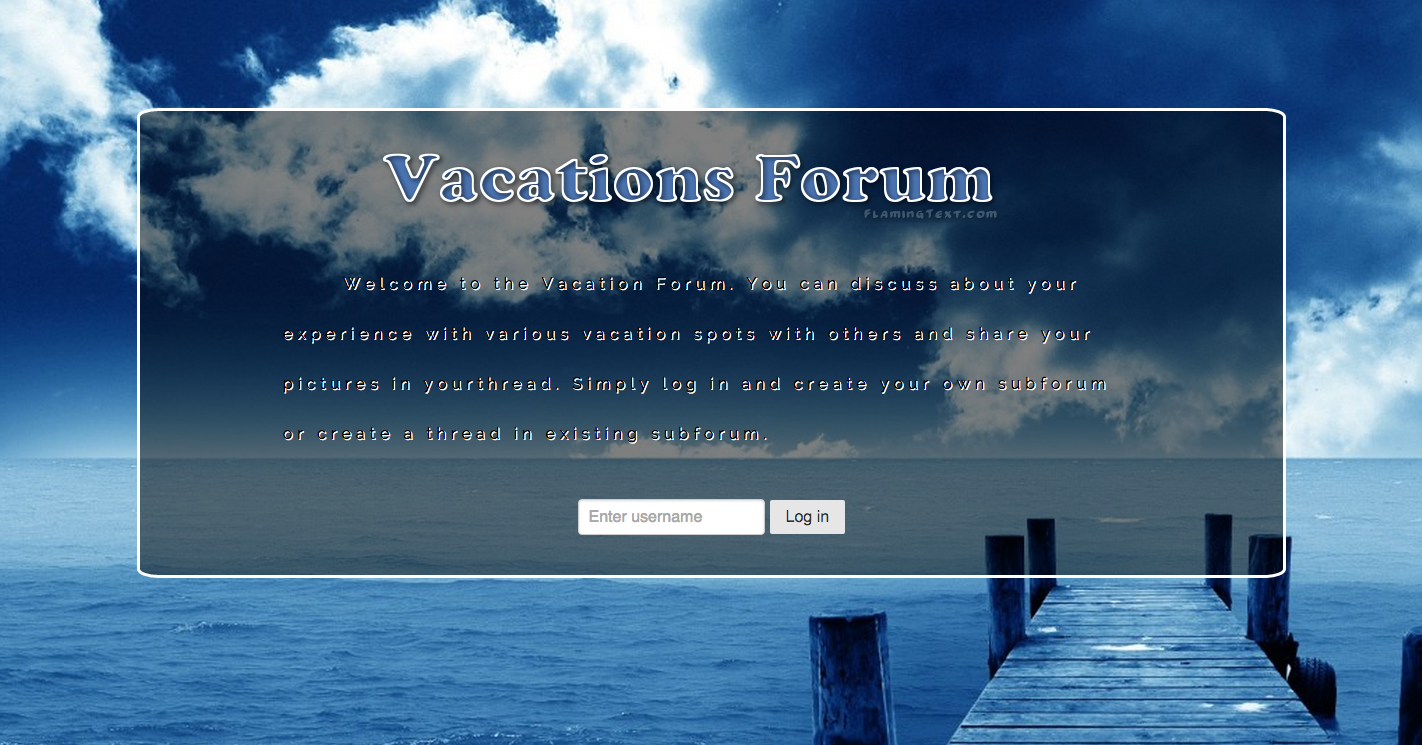
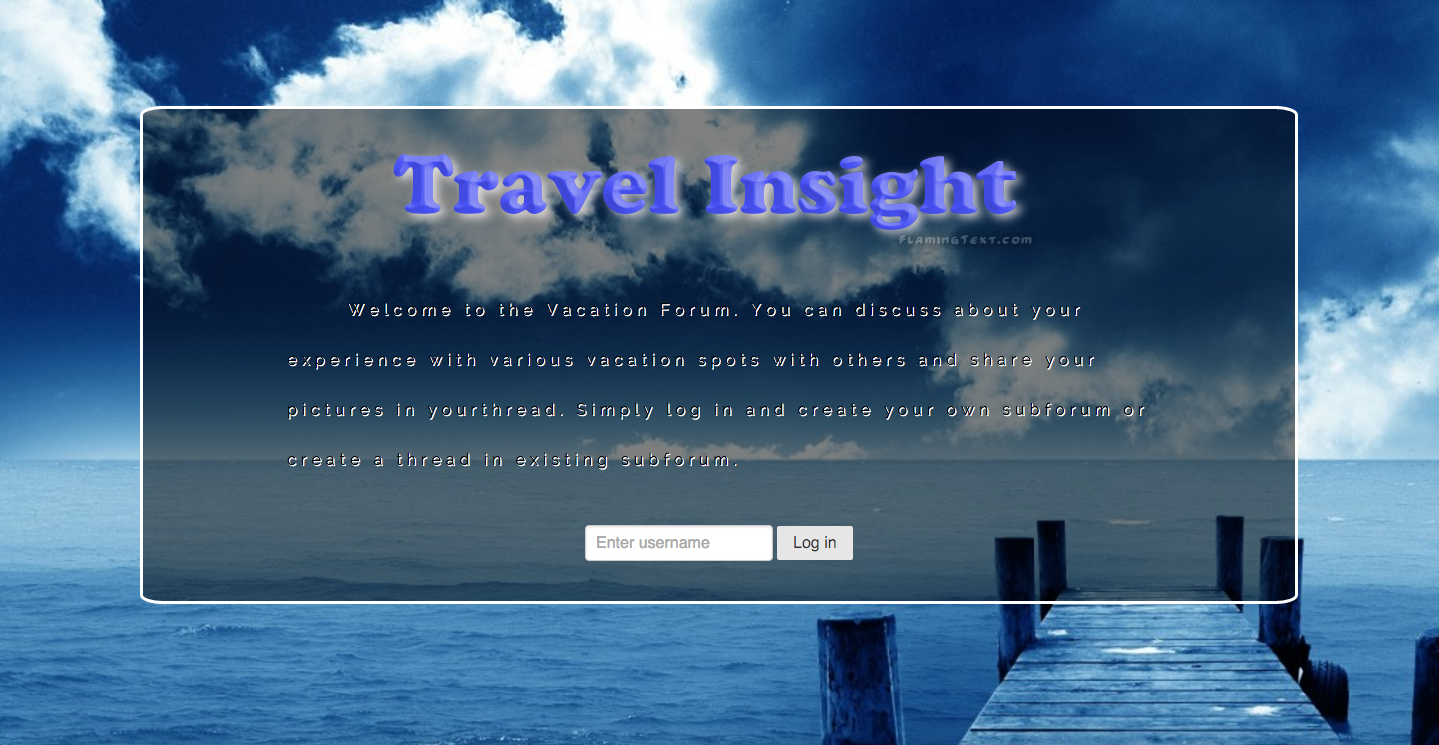
resize

diff --git a/index.html b/index.html
@@ -45,7 +45,10 @@
 				<a href="https://carit.herokuapp.com" target="_blank" class="project-link"><img src="./img/final.jpg" class="img-responsive">
 					<div class="description">
 						<h2>CAR IT</h2>
-						<p class="text">sfjsdljfsdjkf ksdjfs dfjksldf jaskdfj sjdf sdflkj lkjasdf sdfsdflksaj dfljsldfj sdfjs dfjlksd flksjdf asdjfsadfsdfk jadfaskdlfj sdfjsdf sdfjas dfsdf sdjfks df</p>
+						<p class="text">CAR IT is a mobile app that allows users track where they parked.  Users save the geolocation of where they parked and their parking meter time.  When they are ready to go back, a map will appear with the direction back to their car. </p>
+						<p class="password">
+						Username - guest &nbsp; || &nbsp; Password - guest
+						<p>
 					</div>
 				</a>
 			</div>
@@ -53,15 +56,19 @@
 				<a href="http://104.131.190.186:9000" target="_blank" class="project-link"><img src="./img/third.jpg" class="img-responsive">
 					<div class="description">
 						<h2>VITAL NOTE</h2>
-						<p class="text">dsfasdfasdfsdfsddfasjfs;jsjf;jfjsj fsadf</p>
+						<p class="text">VITAL NOTE is a single-page application to help the user's PCP to determine whether their current or new medication is working for them.  Users can keep records of their blood pressure and blood sugar readings. Users can sort readings by month and print out the month's readings.
+						</p>
+						<p class="password">
+						Username - guest &nbsp; || &nbsp; Password - guest
+						<p>
 					</div>
 				</a>	
 			</div>
 			<div class="project">
 				<a href="http://104.131.190.186:3000" target="_blank" class="project-link"><img src="./img/second.jpg" class="img-responsive">
 					<div class="description">
-						<h2>VACATION FORUM</h2>
-						<p class="text">asdfsdf jklad fjsd jsdk f</p>
+						<h2>TRAVEL INSIGHT</h2>
+						<p class="text">TRAVEL INSIGHT is a forum where users create subforums, threads, and comment about their personal experience on their vacation spots. Subforums are categorized by different countries and threads are categorized by different resorts/place they stayed.  Users can also upvote each thread. </p>
 					</div>
 				</a>	
 			</div>
@@ -69,7 +76,7 @@
 				<a href="https://davyoon.github.io" target="_blank" class="project-link"><img src="./img/first.jpg" class="img-responsive">
 					<div class="description">
 						<h2>TIC TAC TOE</h2>
-						<p class="text">sldf asdjf askdjf sdf sadfjskldf as fskd flsad fjaskldf slakdj fa dfjklsf laskj fals fjskldf skldfj aslkdf salkdfj slkdf sajdkfl s</p>
+						<p class="text">A cute Minions version of the popular TIC TAC TOE game.  Users can input their name and keep track of their scores.</p>
 					</div>
 				</a>
 			</div>

diff --git a/style.css b/style.css
@@ -111,17 +111,22 @@
 .project-container{
 		margin-right: 15px;
 		margin-left: 15px;
-		padding-bottom: 40px;
 	}
 
 .project{
-	margin-bottom: 20px;
+	margin-bottom: 50px;
 	background-color: rgba(250,250,250,0.1);
 	box-shadow: 0px 0px 20px white;
+	/*border: 3px solid white;*/
+}
+
+.password{
+	text-align: center;
+	letter-spacing: 2px;
 }
 
 .project:hover{
-	box-shadow: 0px 0px 20px rgba(24,202,230,1);
+	box-shadow: 0px 0px 30px rgba(24,202,230,1);
 	color: white;
 }
 
@@ -144,17 +149,23 @@
 		display: flex;
 		flex-wrap: wrap;
 		justify-content: space-between;
+		margin-right: 55px;
+		margin-left: 55px;
 	}
 	.project{
-		flex: 0 1 49%;
-		border-radius: 2%;
+		flex: 0 2 48%;
 	}
-
+	
+	.password{
+		margin-top: 30px;
+	}
 }
 
 h2{
 	text-align: center;
 	color: white;
+	letter-spacing: 4px;
+	font-family: 'Oxygen', sans-serif;
 }
 
 .text{
@@ -193,6 +204,7 @@ h2{
 	font-size: 130px;
 }
 
+
 @media(max-width: 650px){
 	.contact{
 		font-size: 100px;
@@ -207,6 +219,14 @@ h2{
 	}
 	.nav-list{
 		padding: 15px 8px 15px 8px;
+	}
+
+	.text{
+		display: none;
+	}
+
+	.project-container{
+		padding-bottom: 1px;
 	}
 }
 
